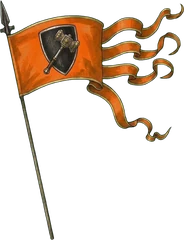
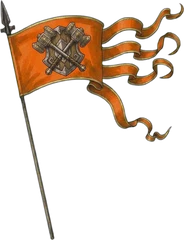
v0.98.9 : drapeau « Marteau » redessiné (marteaux croisés sur un bouclier)
Claude-Session: https://claude.ai/code/session_01ThAJAhzQCU9J3QinbMEDkL

diff --git a/js/config.js b/js/config.js
@@ -700,7 +700,7 @@ const BANNERS = [
   { id: "Le Péteur", name: tr("Le Péteur", "The Farter"), img: 'img/bannieres/b21.webp', icon: 'img/bannieres/b21s.webp', logo: 'img/bannieres/b21m.webp', color: [222, 78, 44] },
   { id: "Masse d'armes", name: tr("Masse d'armes", "Mace"), img: 'img/bannieres/b02.webp', icon: 'img/bannieres/b02s.webp', logo: 'img/bannieres/b02m.webp', color: [240, 128, 130] },
   { id: "Soleil", name: tr("Soleil", "Sun"), img: 'img/bannieres/b03.webp', icon: 'img/bannieres/b03s.webp', logo: 'img/bannieres/b03m.webp', color: [138, 24, 72] },
-  { id: "Marteau", name: tr("Marteau", "Hammer"), img: 'img/bannieres/b04.webp', icon: 'img/bannieres/b04s.webp', logo: 'img/bannieres/b04m.webp', color: [245, 132, 10] },
+  { id: "Marteau", name: tr("Marteaux croisés", "Crossed hammers"), img: 'img/bannieres/b04.webp', icon: 'img/bannieres/b04s.webp', logo: 'img/bannieres/b04m.webp', color: [245, 132, 10] },
   { id: "Canards", name: tr("Canards", "Ducks"), img: 'img/bannieres/b05.webp', icon: 'img/bannieres/b05s.webp', logo: 'img/bannieres/b05m.webp', color: [200, 160, 50] },
   { id: "Aigle noir", name: tr("Aigle noir", "Black eagle"), img: 'img/bannieres/b06.webp', icon: 'img/bannieres/b06s.webp', logo: 'img/bannieres/b06m.webp', color: [252, 232, 30] },
   { id: "Hallebardes", name: tr("Hallebardes", "Halberds"), img: 'img/bannieres/b07.webp', icon: 'img/bannieres/b07s.webp', logo: 'img/bannieres/b07m.webp', color: [150, 182, 118] },

diff --git a/README.md b/README.md
@@ -1247,6 +1247,7 @@ ce sont de grandes taches (environ 15 % des plaines et forêts) ; sur la carte *
 
 ## 🆕 Nouveautés
 
+- **v0.98.9** : 🔨 le drapeau « Marteau » est redessiné : deux **marteaux croisés** sur un bouclier, sur fond orange (il s'appelle maintenant « Marteaux croisés »)
 - **v0.98.8** : 🧱 la **mine fortifiée** a son propre dessin : le site minier dans sa palissade de pieux, avec sa tour de guet (visible en zoomant)
 - **v0.98.7** : 🌐 en ligne, pendant le choix des places (libre ou places prévues), on peut **changer d'avis** jusqu'à la fin des 15 s : un nouveau clic déplace sa capitale, et les autres le voient en direct ; la partie attend toujours la fin du compte à rebours
 - **v0.98.6** : 🏟 cartes arène, placement « Places prévues » : un clic n'importe où sur la carte choisit la place de départ libre la plus proche (plus besoin de viser l'écusson) ; « Aléatoire » prend une place prévue au hasard, « Libre » laisse commencer n'importe où · 🌐 **en ligne** : les cartes arène se jouent aussi en ligne, et l'hôte choisit le placement des capitales : libre (15 s pour cliquer où l'on veut), places prévues (15 s pour réserver une place avant les autres) ou aléatoire (tout le monde placé au hasard, 10 s pour regarder la carte) ; sinon, une place au hasard
